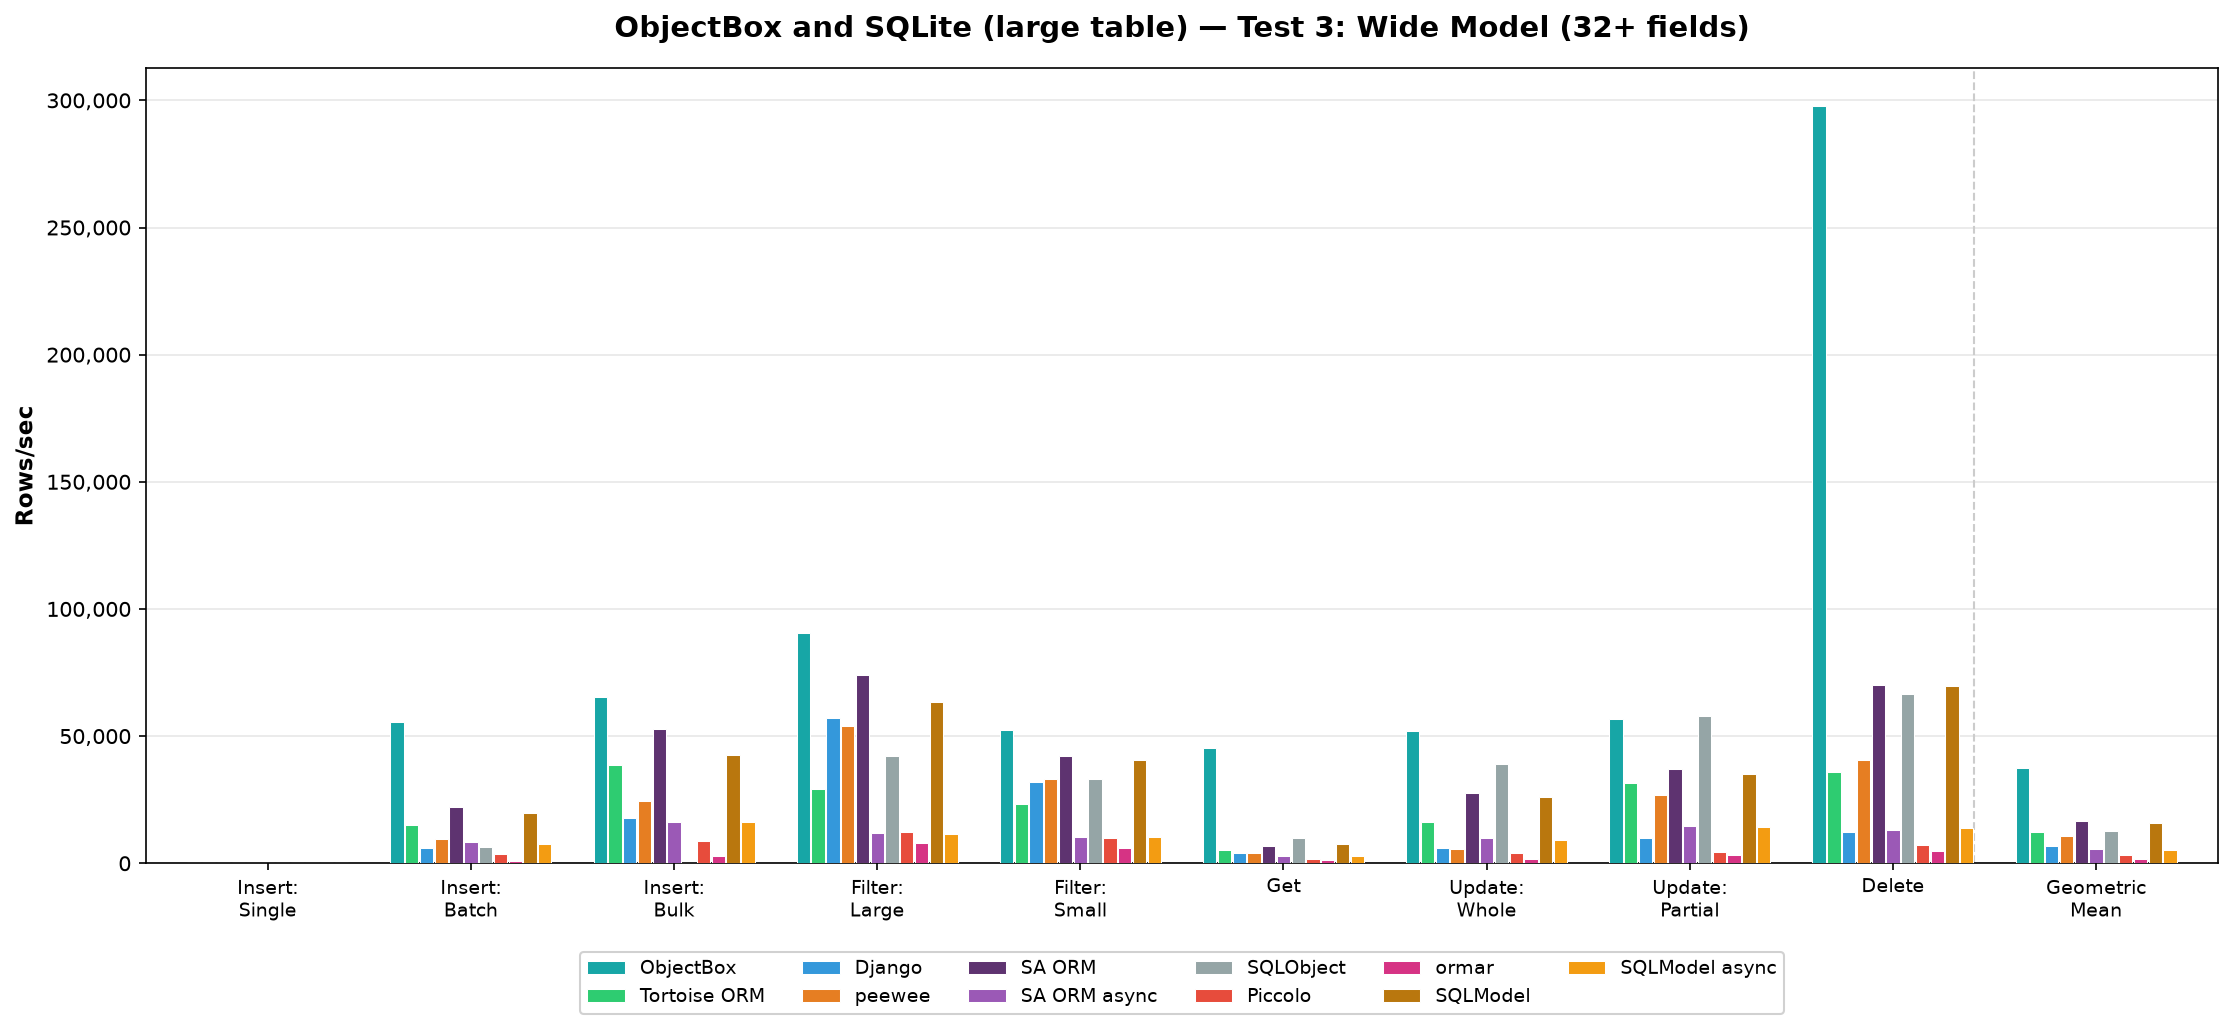
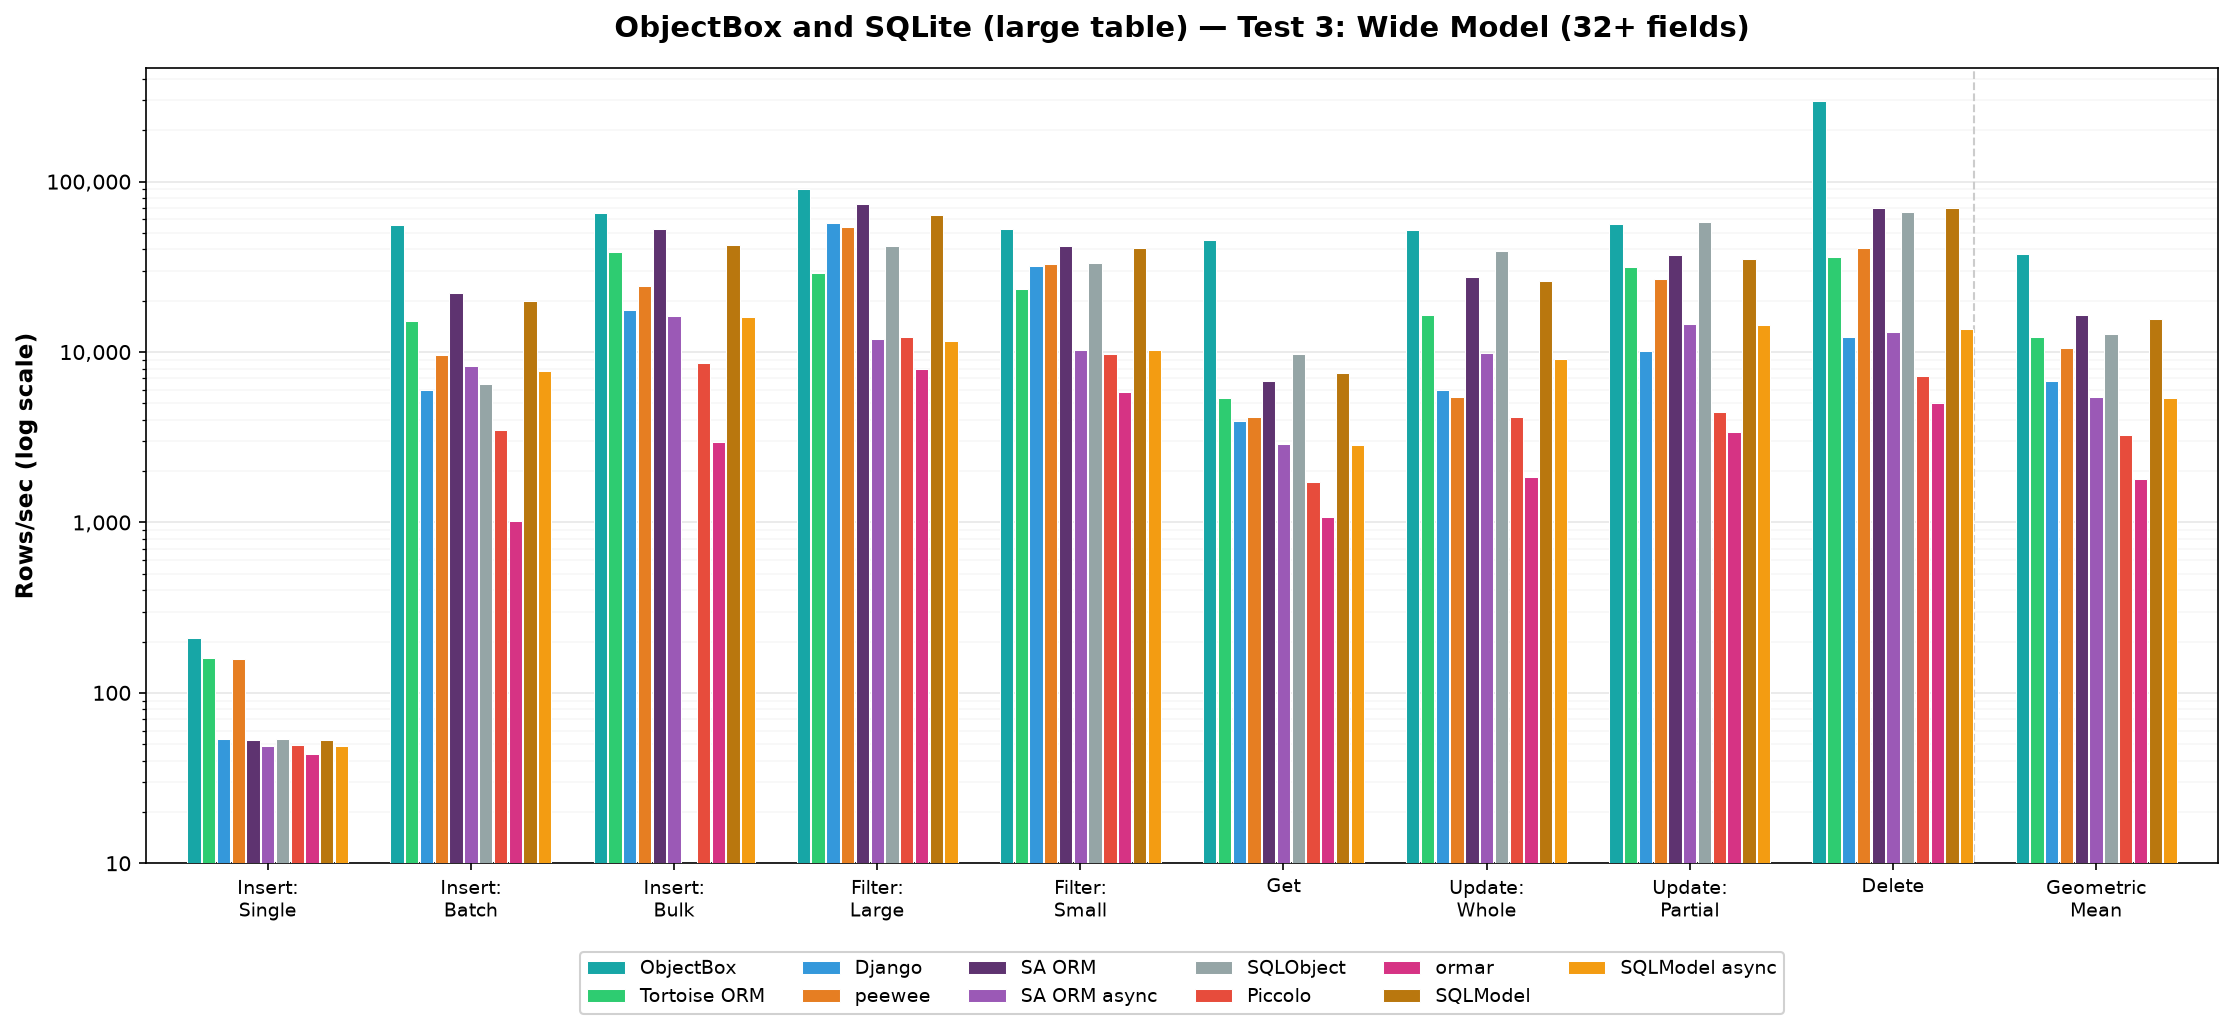
README: fix clone instructions, credit the fork; log scale for the per-test charts
The per-test charts span ~50 to ~1,000,000 rows/sec; on a linear axis,
single inserts, updates and deletes were invisible next to the reads.
The summary charts stay linear.

diff --git a/generate_charts.py b/generate_charts.py
@@ -66,8 +66,12 @@ def compute_geometric_mean(values):
     return math.exp(sum(math.log(v) for v in vals) / len(vals))
 
 
-def generate_chart(data, title, output_path, show_geomean=True):
-    """Generate a grouped bar chart for benchmark results."""
+def generate_chart(data, title, output_path, show_geomean=True, log_scale=True):
+    """Generate a grouped bar chart for benchmark results.
+
+    Log scale by default: the operations span ~50 to ~1,000,000 rows/sec, so a linear axis hides the
+    slow ones (single inserts, updates, deletes) next to the fast reads.
+    """
     orms = [o for o in ORM_ORDER if o in data]
     ops = [o for o in OP_ORDER if any(o in data.get(orm, {}) for orm in orms)]
 
@@ -97,8 +101,15 @@ def generate_chart(data, title, output_path, show_geomean=True):
 
     ax.set_xticks(x)
     ax.set_xticklabels(labels, fontsize=9)
-    ax.set_ylabel("Rows/sec", fontsize=11, fontweight="bold")
     ax.set_title(title, fontsize=14, fontweight="bold", pad=15)
+    if log_scale:
+        ax.set_yscale("log")
+        ax.set_ylim(bottom=10)
+        ax.set_ylabel("Rows/sec (log scale)", fontsize=11, fontweight="bold")
+        ax.yaxis.set_minor_formatter(ticker.NullFormatter())
+        ax.grid(axis="y", which="minor", alpha=0.1, zorder=0)
+    else:
+        ax.set_ylabel("Rows/sec", fontsize=11, fontweight="bold")
     ax.yaxis.set_major_formatter(ticker.FuncFormatter(lambda v, _: f"{v:,.0f}"))
     ax.grid(axis="y", alpha=0.3, zorder=0)
     ax.set_axisbelow(True)

diff --git a/README.md b/README.md
@@ -2,6 +2,8 @@
 
 Performance benchmarks of embedded databases in Python: the object database [ObjectBox](https://github.com/objectbox/objectbox-python) and SQLite, accessed through popular Python ORMs. Everything runs in-process on local storage, without a database server.
 
+This is a fork of [tortoise/orm-benchmarks](https://github.com/tortoise/orm-benchmarks), the ORM benchmark of the Tortoise ORM project. Changes: ObjectBox added; sync variants of SQLAlchemy and SQLModel added; only persisting is timed (objects and new values are prepared before the timer); a warm-up mode; batch and bulk inserts with 10,000 objects; a large-table mode; fixes to how the suite uses several ORMs (see [raw-results/2026-10-18](raw-results/2026-10-18/README.md)); results are the median of 5 runs.
+
 Older results for PostgreSQL and MySQL (SQL ORMs only, earlier benchmark version, different machine) are in [postgres-mysql.md](postgres-mysql.md).
 
 Higher is better: rows (objects) per second, as the geometric mean over the 9 object operations of each test (SQLObject has no bulk insert, so its mean covers 8; see [Setup](#setup)). Each value is the median of 5 full runs.
@@ -118,7 +120,7 @@ Insert: Bulk uses each ORM's fastest bulk path. Only Django (`bulk_create()`), P
 
 ## Detailed results: cold
 
-SQLite on the local filesystem (`/tmp/db.sqlite3`), ObjectBox in `/tmp/objectbox-bench`. SQLite allows one writer at a time, so the benchmark is single-threaded; async ORMs pay overhead without a concurrency benefit. These are cold numbers; see [Detailed results: warm](#detailed-results-warm) for runs with a warm-up run before each operation.
+SQLite on the local filesystem (`/tmp/db.sqlite3`), ObjectBox in `/tmp/objectbox-bench`. SQLite allows one writer at a time, so the benchmark is single-threaded; async ORMs pay overhead without a concurrency benefit. These are cold numbers; see [Detailed results: warm](#detailed-results-warm) for runs with a warm-up run before each operation. The charts per test use a logarithmic scale (rows/sec range from ~50 to ~1,000,000), so equal bar-height differences mean equal ratios.
 
 ### Test 1: Simple Model (4 fields)
 
@@ -267,17 +269,20 @@ One more effect of the larger batches: the rows deleted after Insert: Batch and 
 
 ```sh
 # Clone and install
-git clone https://github.com/tortoise/orm-benchmarks.git
-cd orm-benchmarks
+git clone https://github.com/objectbox/python-orm-benchmarks.git
+cd python-orm-benchmarks
 uv venv --python 3.14 && source .venv/bin/activate
 # ObjectBox 5.0.0b1 is only on TestPyPI: install it first, without dependencies
 uv pip install --no-deps --index-url https://test.pypi.org/simple/ objectbox==5.0.0b1 objectbox-api==5.0.0b1 objectbox-clib==5.3.2
 uv pip install --no-sources -r pyproject.toml
 
 # All ORMs and ObjectBox, Tests 1-3
-cd benchmarks && sh bench.sh
+cd benchmarks
+sh bench.sh
 # With a warm-up run before each timed operation
-cd benchmarks && WARMUP=1 sh bench.sh
+WARMUP=1 sh bench.sh
+# Large table: D-K on ~20,100 rows
+LARGE_TABLE=1 sh bench.sh
 ```
 
 For PostgreSQL and MySQL, see [postgres-mysql.md](postgres-mysql.md).

diff --git a/large-table.md b/large-table.md
@@ -2,7 +2,7 @@
 
 Detailed results of the large-table runs (`LARGE_TABLE=1`); summary, setup and the default results (~300 rows) are in the [README](README.md).
 
-The only difference from the default runs: after Insert: Batch and Insert: Bulk (10,000 objects each), the untimed step that deletes the newest 9,900 rows again is skipped, so D–K run on ~20,100 rows instead of ~300. Filter: Large returns ~67x more rows per query; Filter: Small (20 rows) and Get (one row) fetch the same as before from a larger table; Update: Whole, Update: Partial and Delete update or delete all rows in one transaction each, so one durable commit is spread over ~20,100 rows instead of ~300. A–C don't depend on the table size (they run before it differs); their values here come from separate runs, so they differ slightly from the default results. Same machine, versions and settings (`ITERATIONS=100`, `BATCH_SIZE=10000`); each value is the median of 5 full runs ([raw results](raw-results/2026-10-18/)).
+The only difference from the default runs: after Insert: Batch and Insert: Bulk (10,000 objects each), the untimed step that deletes the newest 9,900 rows again is skipped, so D–K run on ~20,100 rows instead of ~300. Filter: Large returns ~67x more rows per query; Filter: Small (20 rows) and Get (one row) fetch the same as before from a larger table; Update: Whole, Update: Partial and Delete update or delete all rows in one transaction each, so one durable commit is spread over ~20,100 rows instead of ~300. A–C don't depend on the table size (they run before it differs); their values here come from separate runs, so they differ slightly from the default results. The charts per test use a logarithmic scale (rows/sec range from ~50 to ~1,000,000), so equal bar-height differences mean equal ratios. Same machine, versions and settings (`ITERATIONS=100`, `BATCH_SIZE=10000`); each value is the median of 5 full runs ([raw results](raw-results/2026-10-18/)).
 
 Tortoise ORM's Update: Whole, Update: Partial and Delete on Test 3 alternate between two levels from run to run, in cold and warm runs alike (e.g. Update: Whole ~13,200 or ~17,500 rows/sec), so their medians, and the cold/warm difference of its Test 3 geometric mean (×0.92), depend on which level the majority of the 5 runs hit.
 
